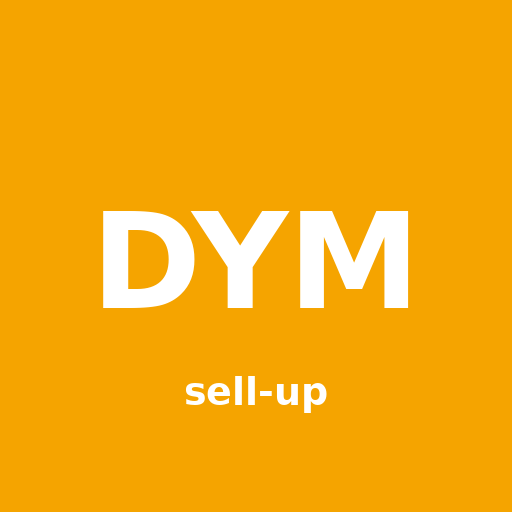
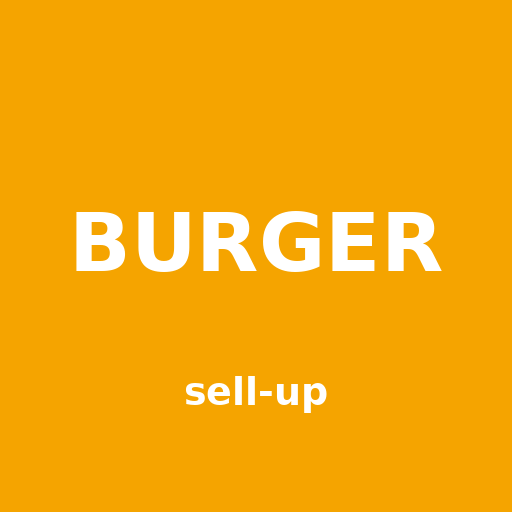
Demo burgera: nazwa Burger zamiast DYM Burger
Claude-Session: https://claude.ai/code/session_015vmYLYnVeAcH1BqmKovvNp

Changed region(s): [[0.125, 0.4062, 0.875, 0.625]]

diff --git a/dym-burger/index.html b/dym-burger/index.html
@@ -3,7 +3,7 @@
 <head>
 <meta charset="utf-8">
 <meta name="viewport" content="width=device-width, initial-scale=1, viewport-fit=cover">
-<title>DYM Burger</title>
+<title>Burger</title>
 <link rel="preconnect" href="https://fonts.googleapis.com">
 <link rel="preconnect" href="https://fonts.gstatic.com" crossorigin>
 <link rel="stylesheet" href="https://fonts.googleapis.com/css2?family=Anton&family=Onest:wght@400;500;600;700;800&display=swap">
@@ -472,7 +472,7 @@ footer{color:var(--muted);font-size:12.5px;padding-block:10px 20px;border-top:1p
 </style>
 </head>
 <body>
-<div class="loading" id="loading">DYM<b>burger</b></div>
+<div class="loading" id="loading"><b>Burger</b></div>
 
 <div class="bgfx" aria-hidden="true">
   <video id="bgFire" muted loop playsinline preload="auto" poster="assets/p_fire_end.jpg"><source src="assets/v_fire.mp4" type="video/mp4"></video>
@@ -495,7 +495,7 @@ footer{color:var(--muted);font-size:12.5px;padding-block:10px 20px;border-top:1p
 
 <header class="wrap top">
   <div>
-    <div class="logo">DYM<b>burger</b></div>
+    <div class="logo"><b>Burger</b></div>
     <div class="status"><span class="open">Otwarte do 23:00</span><span>Dostawa 30–40 min</span><span>ul. Wędzarnicza 7</span></div>
   </div>
   <button class="loy-chip" id="loyChip" aria-label="Karta lojalnościowa"><span id="loyChipSvg"></span><span class="num" id="loyChipTx">2/10</span></button>
@@ -584,7 +584,7 @@ footer{color:var(--muted);font-size:12.5px;padding-block:10px 20px;border-top:1p
 
   <div class="menu-panel">
     <section class="wrap">
-      <button class="loy-promo" id="loyPromo"><span id="loyPromoSvg"></span><span><b>Karta DYM: 10 pieczątek = burger gratis</b><span>Za każdego burgera dostajesz pieczątkę. <em>Na start masz już 2 w prezencie.</em></span></span></button>
+      <button class="loy-promo" id="loyPromo"><span id="loyPromoSvg"></span><span><b>Karta stałego klienta: 10 pieczątek = burger gratis</b><span>Za każdego burgera dostajesz pieczątkę. <em>Na start masz już 2 w prezencie.</em></span></span></button>
       <div class="section-h" id="menuStart"><h2 id="menuTitle"></h2><small id="countLbl"></small></div>
       <div class="grid" id="grid"></div>
     </section>
@@ -592,8 +592,8 @@ footer{color:var(--muted);font-size:12.5px;padding-block:10px 20px;border-top:1p
     <section class="wrap app-sec">
       <div class="phone" aria-hidden="true"><div class="notch"></div>
         <div class="scr">
-          <div class="push"><i>D</i><span><b>DYM burger</b><span id="pushTx">Twój burger zszedł z rusztu. Kierowca rusza.</span></span></div>
-          <div class="lg">DYM<b>burger</b></div>
+          <div class="push"><i>D</i><span><b>Burger</b><span id="pushTx">Twój burger zszedł z rusztu. Kierowca rusza.</span></span></div>
+          <div class="lg"><b>Burger</b></div>
           <span id="phoneLoy"></span>
           <div class="k"><b class="num" id="phoneLoyTx">2 z 10</b> pieczątek na karcie</div>
           <div class="re">Zamów to samo co ostatnio</div>
@@ -601,7 +601,7 @@ footer{color:var(--muted);font-size:12.5px;padding-block:10px 20px;border-top:1p
         </div>
       </div>
       <div class="app-copy">
-        <h2>DYM <span class="hl">w telefonie</span></h2>
+        <h2>Burger <span class="hl">w telefonie</span></h2>
         <p>Aplikacja instaluje się prosto z tej strony, bez App Store i Google Play. Jedno dotknięcie i jest na ekranie obok innych aplikacji.</p>
         <ul>
           <li><i>1</i><span>Karta lojalnościowa zawsze pod ręką. Pieczątki dopisują się same.</span></li>
@@ -612,7 +612,7 @@ footer{color:var(--muted);font-size:12.5px;padding-block:10px 20px;border-top:1p
       </div>
     </section>
 
-    <footer class="wrap">DYM burger · ul. Wędzarnicza 7 · tel. 500 600 700 · Zamówienia online: <a href="#" id="trackLink" style="color:inherit" hidden>sprawdź status ostatniego zamówienia</a></footer>
+    <footer class="wrap">Burger · ul. Wędzarnicza 7 · tel. 500 600 700 · Zamówienia online: <a href="#" id="trackLink" style="color:inherit" hidden>sprawdź status ostatniego zamówienia</a></footer>
     <div class="spacer"></div>
   </div>
 </main>
@@ -721,7 +721,7 @@ footer{color:var(--muted);font-size:12.5px;padding-block:10px 20px;border-top:1p
   <div class="grab"></div>
   <button class="x" data-close aria-label="Zamknij">✕</button>
   <div class="body">
-    <h2 class="c-title" id="lTitle" style="text-align:center">Karta <span class="hl">DYM</span></h2>
+    <h2 class="c-title" id="lTitle" style="text-align:center">Karta <span class="hl">stałego klienta</span></h2>
     <div class="loy-big" id="loyBig"></div>
     <p class="loy-count"><b class="num" id="loyNum">2</b> <span class="num">z 10</span> pieczątek</p>
     <p class="loy-sub" id="loySub"></p>
@@ -739,7 +739,7 @@ footer{color:var(--muted);font-size:12.5px;padding-block:10px 20px;border-top:1p
   <div class="grab"></div>
   <button class="x" data-close aria-label="Zamknij">✕</button>
   <div class="body">
-    <h2 class="c-title" id="aTitle">Zainstaluj DYM</h2>
+    <h2 class="c-title" id="aTitle">Zainstaluj aplikację</h2>
     <div class="seg" role="group" aria-label="System" style="display:inline-flex;margin:4px 0 10px"><button data-plat="ios" aria-pressed="true">iPhone</button><button data-plat="android" aria-pressed="false">Android</button></div>
     <ol class="steps-inst" id="instSteps"></ol>
     <div class="note">Szkic: w wersji docelowej strona będzie miała plik aplikacji i powiadomienia, a przycisk od razu pokaże okno instalacji.</div>
@@ -767,7 +767,7 @@ footer{color:var(--muted);font-size:12.5px;padding-block:10px 20px;border-top:1p
 <!-- Kuchnia -->
 <section class="kitchen" id="kitchen" hidden aria-label="Panel kuchni">
   <div class="k-top">
-    <h2>Kuchnia <small>DYM burger</small></h2>
+    <h2>Kuchnia <small>Burger</small></h2>
     <div class="k-stats" id="kStats"></div>
     <button class="k-btn on" id="kSound">Dźwięk: wł.</button>
     <span class="k-clock" id="kClock"></span>
@@ -819,7 +819,7 @@ const TOPS = [
 ];
 const TT = Object.fromEntries(TOPS.map(t => [t.id, t]));
 const SAUCES = [
-  { id:'dym', name:'Firmowy DYM', c:'#e9935a' }, { id:'bbq', name:'BBQ wędzony', c:'#5a2414' },
+  { id:'dym', name:'Firmowy', c:'#e9935a' }, { id:'bbq', name:'BBQ wędzony', c:'#5a2414' },
   { id:'ostry', name:'Ostry chipotle', c:'#c2361b' }, { id:'czosnek', name:'Czosnkowy', c:'#efe6cf' },
 ];
 const SN = Object.fromEntries(SAUCES.map(s => [s.id, s.name]));
@@ -1570,14 +1570,14 @@ function renderOcLoy(r){
   el.hidden = false;
   el.innerHTML = r.won
     ? `${loySVG(LOY_N, r.before)}<div><b>Pełna karta! Następny burger gratis</b><span>Karta zaczyna się od nowa: ${r.after} z ${LOY_N}.</span></div>`
-    : `${loySVG(r.after, r.before)}<div><b>+${r.n} ${plP(r.n)} na karcie DYM</b><span>${r.after} z ${LOY_N} · do darmowego burgera brakuje ${LOY_N - r.after}</span></div>`;
+    : `${loySVG(r.after, r.before)}<div><b>+${r.n} ${plP(r.n)} na karcie</b><span>${r.after} z ${LOY_N} · do darmowego burgera brakuje ${LOY_N - r.after}</span></div>`;
 }
 $('#loyChip').onclick = openLoy; $('#loyPromo').onclick = openLoy;
 
 /* ===== Instalacja aplikacji ===== */
 const INST = {
-  ios: ['Otwórz stronę w Safari.', 'Stuknij przycisk Udostępnij na dole ekranu.', 'Wybierz „Do ekranu początkowego”, potem „Dodaj”.', 'Uruchom DYM z ekranu i zgódź się na powiadomienia.'],
-  android: ['Otwórz stronę w Chrome.', 'Stuknij „Zainstaluj aplikację” na dole ekranu albo w menu ⋮.', 'Potwierdź „Zainstaluj”.', 'Uruchom DYM i zgódź się na powiadomienia.']
+  ios: ['Otwórz stronę w Safari.', 'Stuknij przycisk Udostępnij na dole ekranu.', 'Wybierz „Do ekranu początkowego”, potem „Dodaj”.', 'Uruchom Burger z ekranu i zgódź się na powiadomienia.'],
+  android: ['Otwórz stronę w Chrome.', 'Stuknij „Zainstaluj aplikację” na dole ekranu albo w menu ⋮.', 'Potwierdź „Zainstaluj”.', 'Uruchom Burger i zgódź się na powiadomienia.']
 };
 function setPlat(p){ $('#instSteps').innerHTML = INST[p].map(x => `<li>${x}</li>`).join(''); document.querySelectorAll('[data-plat]').forEach(b => b.setAttribute('aria-pressed', b.dataset.plat === p)); }
 document.querySelectorAll('[data-plat]').forEach(b => b.onclick = () => setPlat(b.dataset.plat));
